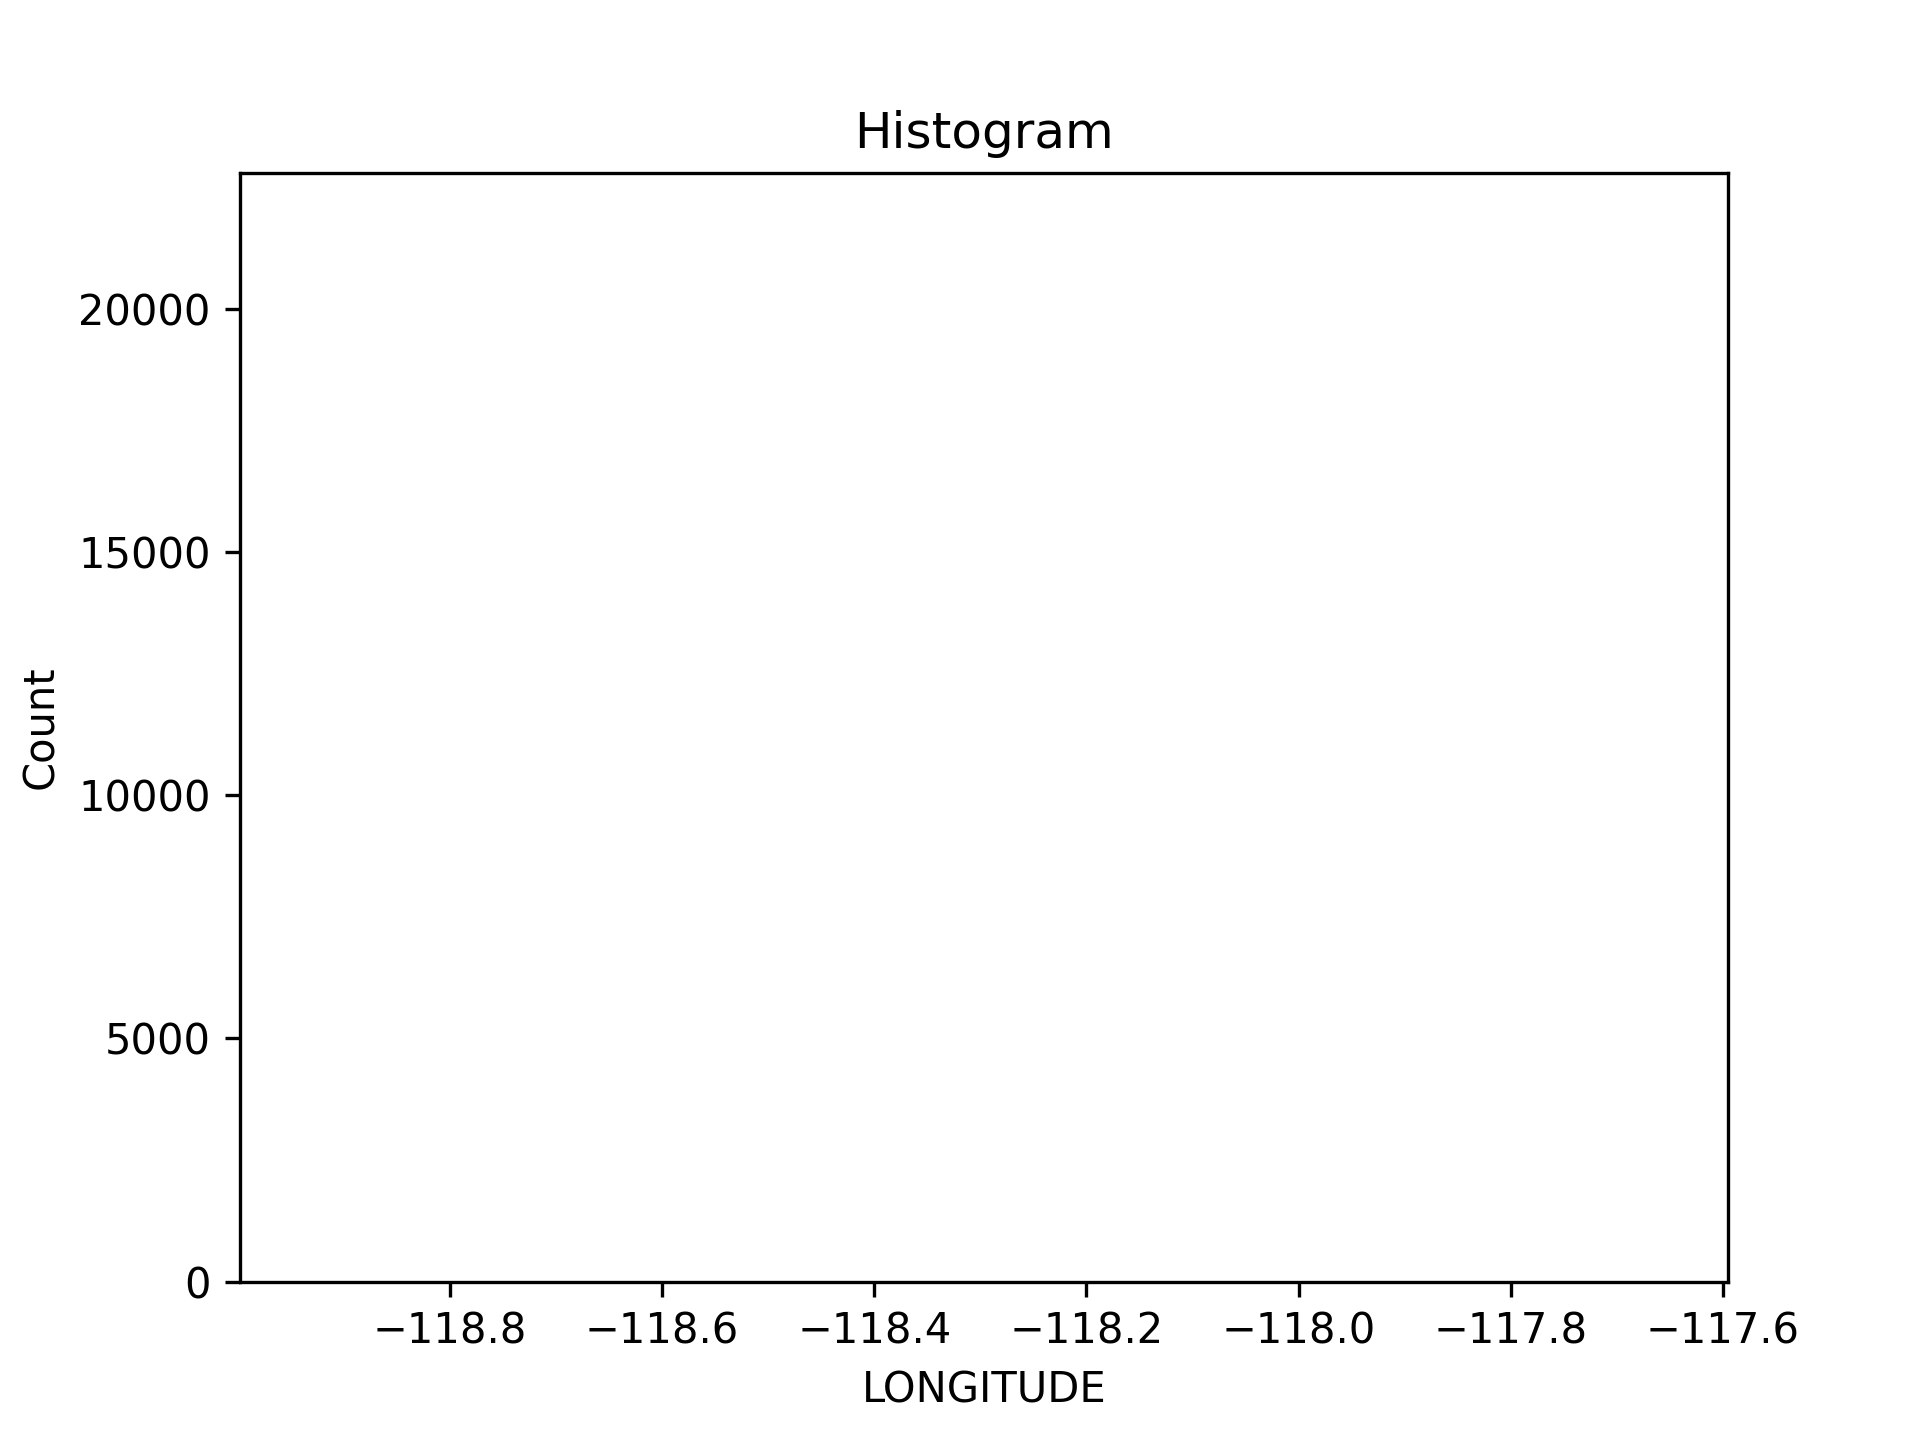
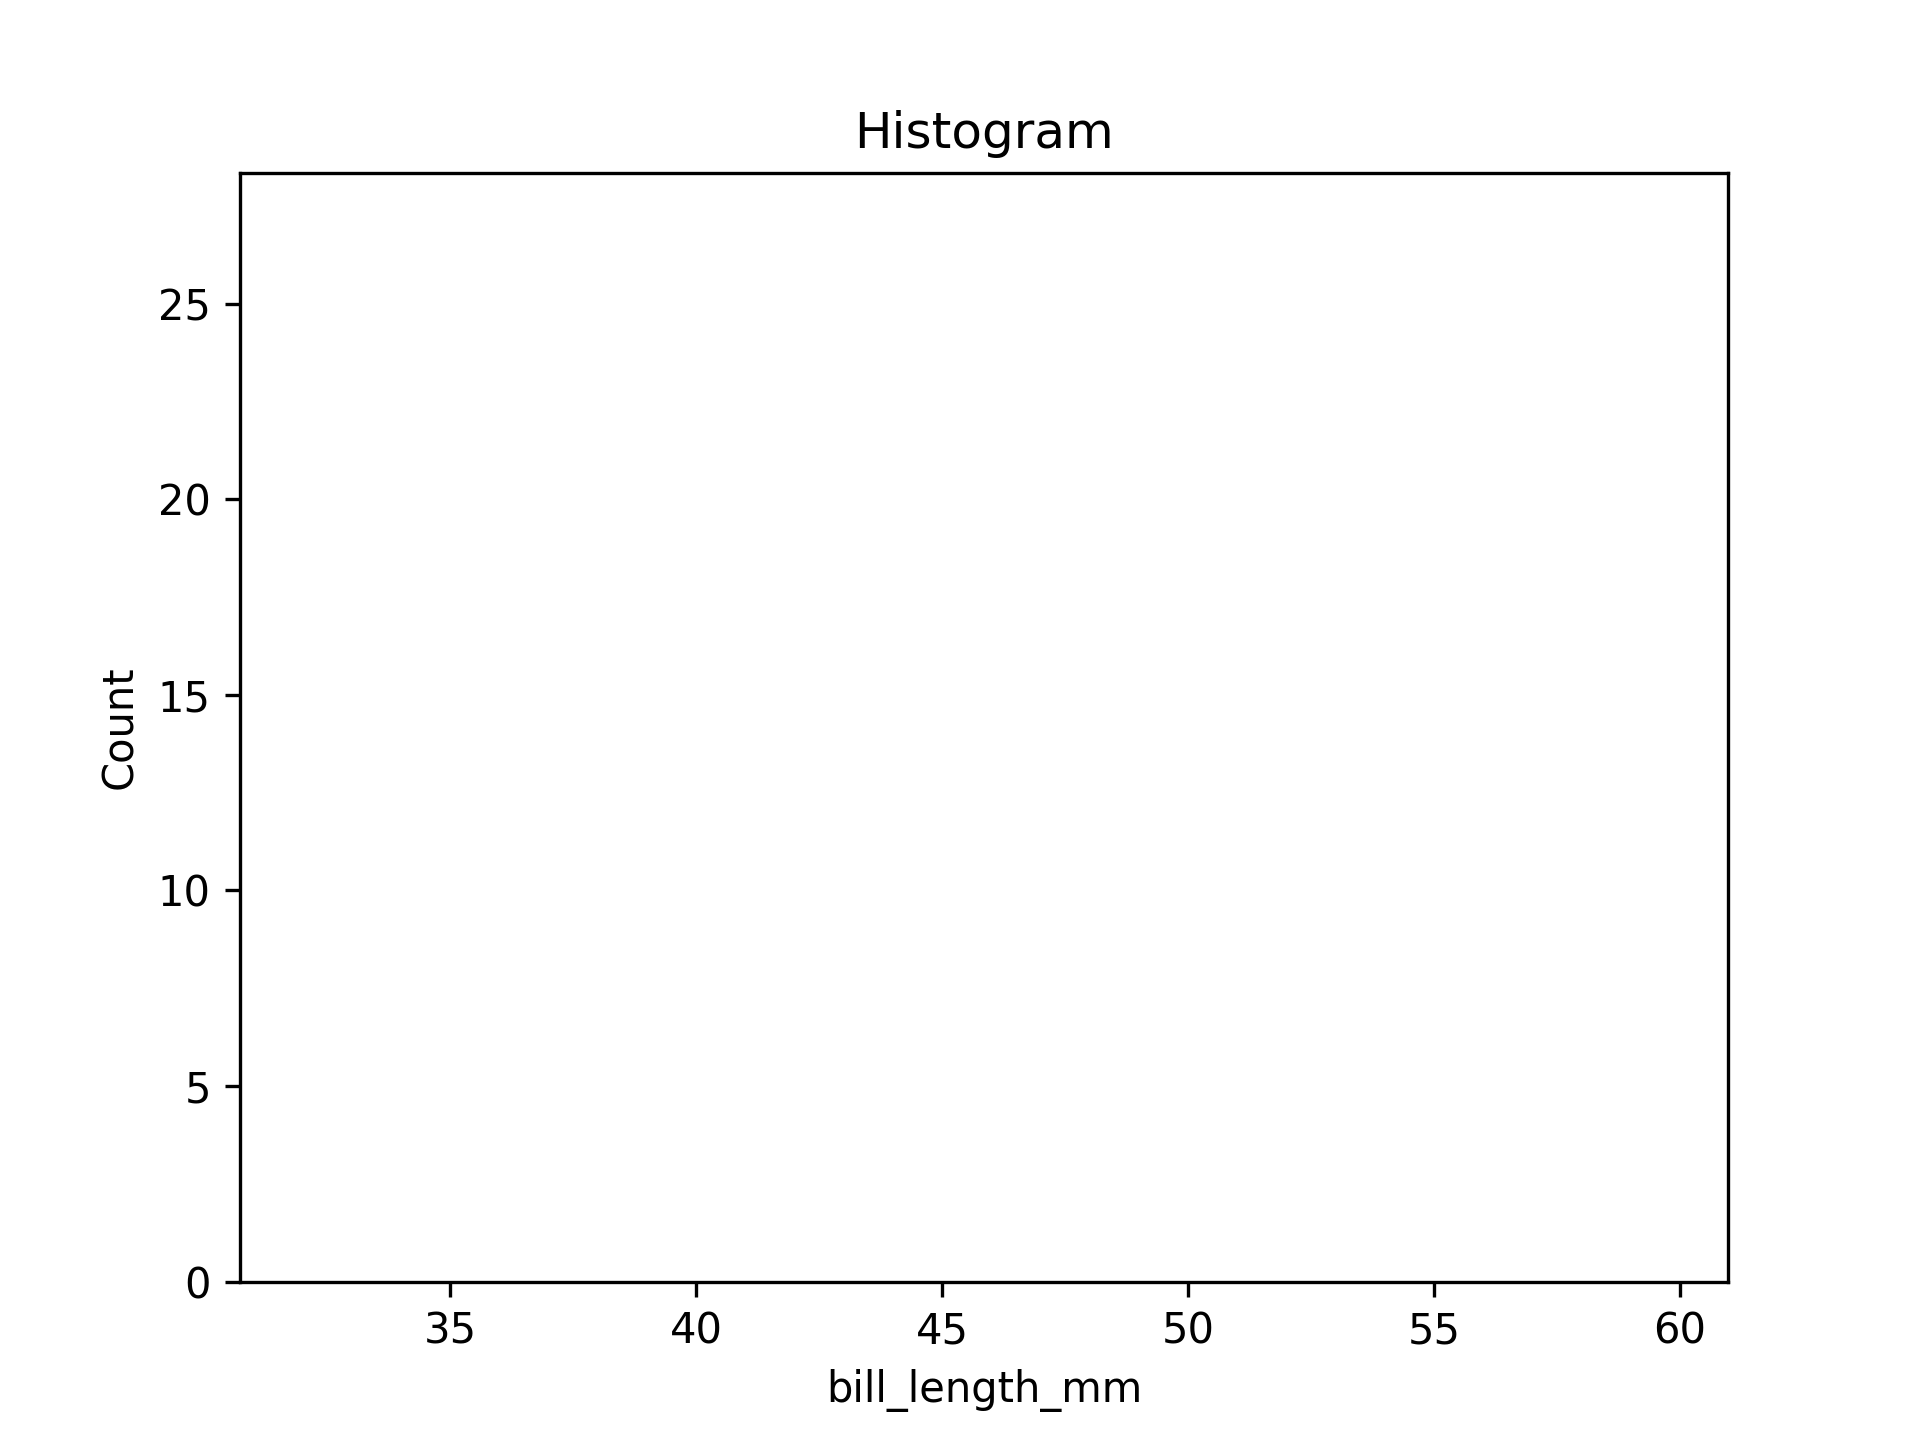
2nd to last edit

diff --git a/main.py b/main.py
@@ -1,10 +1,24 @@
 import streamlit as st
 import pandas as pd
+import numpy as np
 from matplotlib import pyplot as plt
 import io
 
 web_apps = st.sidebar.selectbox("Select Web Apps",
                                 ("Exploratory Data Analysis", "Distributions"))
+
+# 5 num sum function
+def calculate_five_number_summary(data):
+    min_val = np.min(data)
+    max_val = np.max(data)
+    median = np.median(data)
+    q1 = np.percentile(data, 25)
+    q3 = np.percentile(data, 75)
+    return min_val, q1, median, q3, max_val
+# Proportions of category function
+def calculate_proportions(data):
+    proportions = data.value_counts(normalize=True)
+    return proportions
 
 
 if web_apps == "Exploratory Data Analysis":
@@ -23,24 +37,22 @@ if web_apps == "Exploratory Data Analysis":
     if display_relevant_statistics:
       st.write("Dataset shape:", df.shape)
 
-    # chat dont need 
-    st.title("Column Selection")
-    st.write("Select a column from the dataset")
-
-    # Display a dropdown/selectbox to choose the column
-    selected_column = st.selectbox('Select a column', df.columns)
-
-    # Display the selected column data
-    st.write("Selected column:", selected_column)
-    st.write(df[selected_column])
-
     column_type = st.sidebar.selectbox('Select Data Type',
                                        ("Numerical", "Categorical", "Bool", "Date"))
 
     if column_type == "Numerical":
       numerical_column = st.sidebar.selectbox(
           'Select a Column', df.select_dtypes(include=['int64', 'float64']).columns)
-
+      st.write("Selected column:", numerical_column)
+      st.write(df[numerical_column])
+      min_val, q1, median, q3, max_val = calculate_five_number_summary(df[numerical_column])
+      st.write("Selected column five number summary:")
+      five_num_sum_data = pd.DataFrame({
+            'Statistic': ['Min', 'Q1', 'Median', 'Q3', 'Max'],
+            'Value': [min_val, q1, median, q3, max_val]
+        })
+      st.table(five_num_sum_data)
+      
       # histogram
       choose_color = st.color_picker('Pick a Color', "#69b3a2")
       choose_opacity = st.slider(
@@ -62,6 +74,41 @@ if web_apps == "Exploratory Data Analysis":
       filename = "plot.png"
       fig.savefig(filename,dpi = 300)
 
+      # Display the download button
+      with open("plot.png", "rb") as file:
+        btn = st.download_button(
+            label="Download image",
+            data=file,
+            file_name="flower.png",
+            mime="image/png"
+        )
+
+    if column_type == "Categorical":
+      catagorical_column = st.sidebar.selectbox(
+          'Select a Column', df.select_dtypes(include=['object']).columns)
+      st.write("Selected column:", catagorical_column)
+      st.write(df[catagorical_column])
+
+      # proporttions 
+      proportions = calculate_proportions(df[catagorical_column])
+            
+      st.write("Category Proportions:")
+      st.table(proportions)
+            
+      # Create a bar plot
+      choose_color = st.color_picker('Pick a Color', "#69b3a2")
+      choose_opacity = st.slider(
+          'Color Opacity', min_value=0.0, max_value=1.0, step=0.05)
+
+      bar_title = st.text_input('Set Title', 'Bar Plot')
+      bar_xtitle = st.text_input('Set x-axis Title', catagorical_column)
+      
+      plt.bar(proportions.index, proportions.values, edgecolor = "black", color = choose_color, alpha = choose_opacity)
+      plt.xlabel(catagorical_column)
+      plt.ylabel(bar_xtitle)
+      plt.title(bar_title)
+      st.pyplot(plt)
+      
       # Display the download button
       with open("plot.png", "rb") as file:
         btn = st.download_button(
